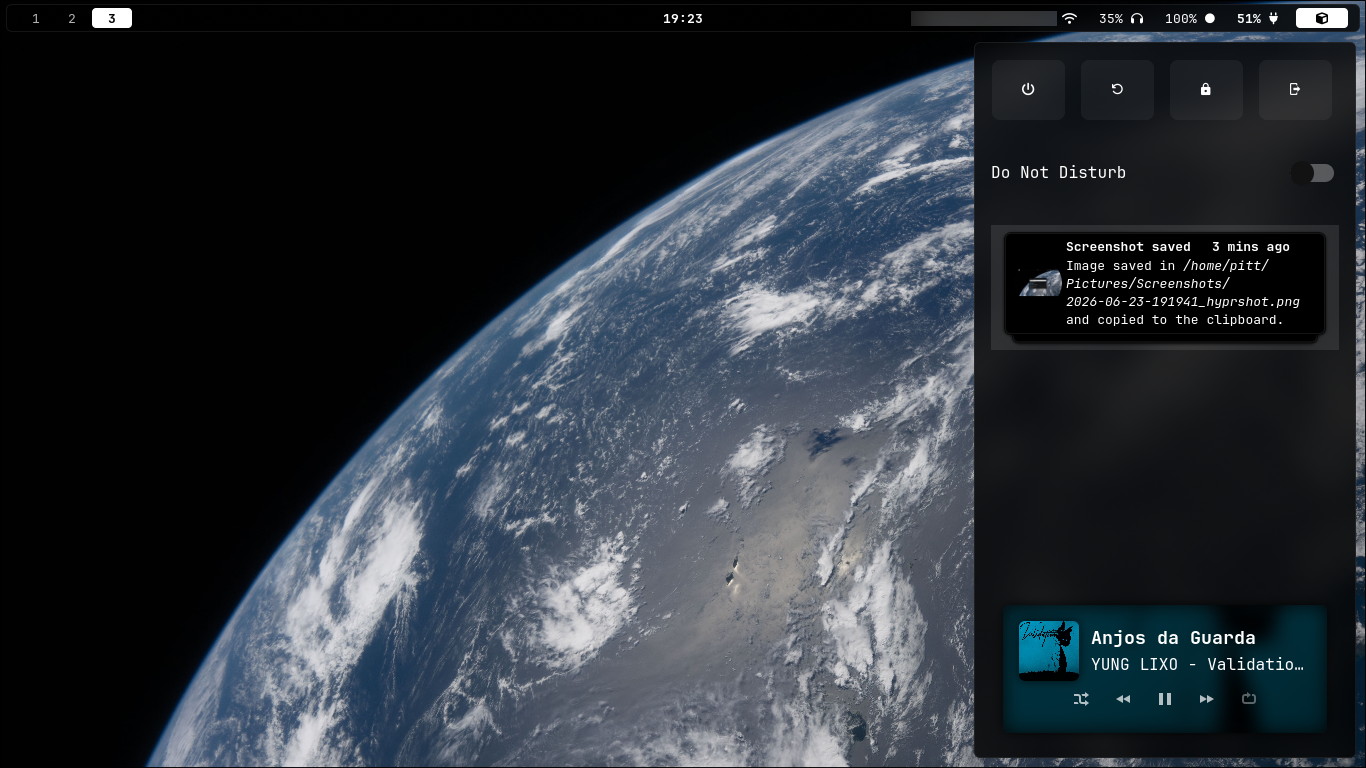
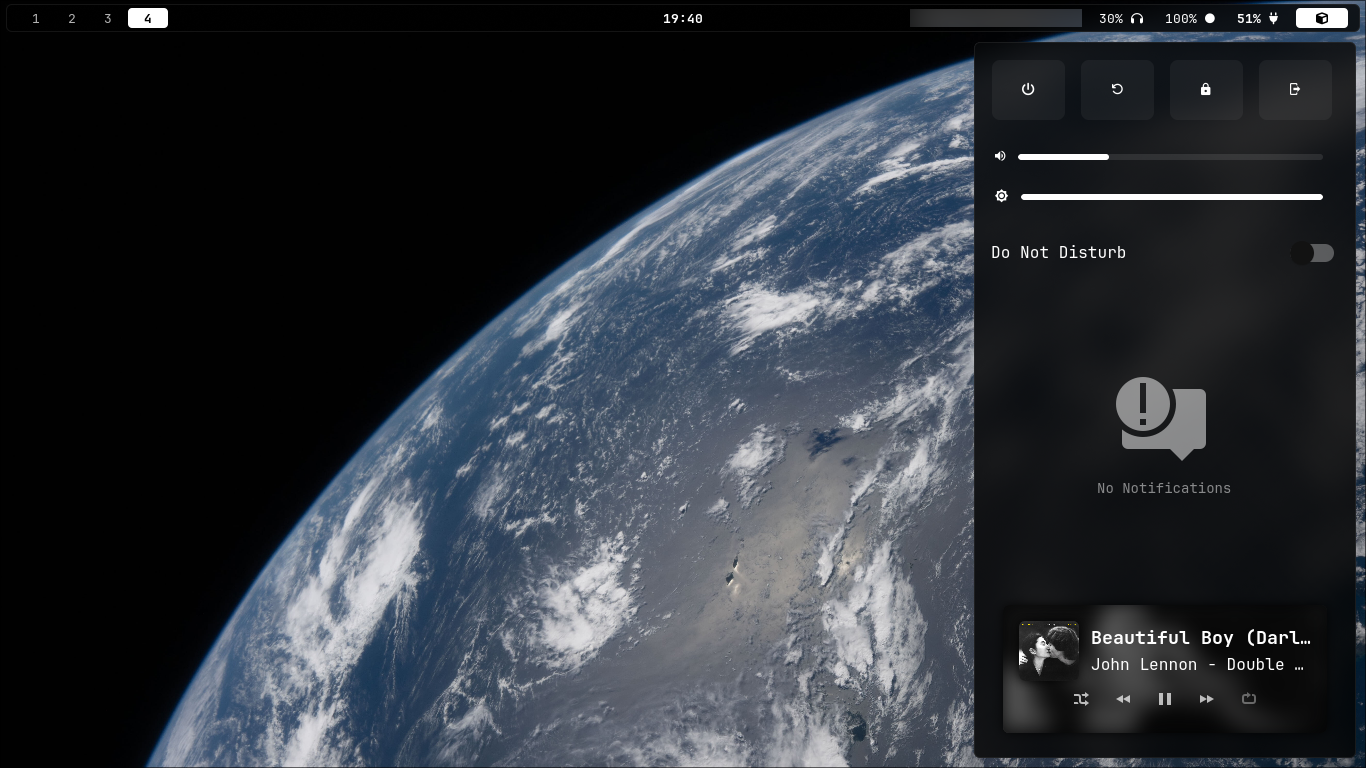
swaync volume and backlight update

diff --git a/config/swaync/style.css b/config/swaync/style.css
@@ -460,15 +460,30 @@ notificationwindow, blankwindow {
   --widget-volume-row-icon-size: 24px;
 }
 
-.widget-volume row image {
-  -gtk-icon-size: var(--widget-volume-row-icon-size);
+.widget-volume, .widget-backlight {
+  background: transparent;
+  padding: 0px 12px;
+  margin: 0px 8px;
 }
 
-.per-app-volume {
-  background-color: var(--noti-bg-darker);
-  margin: 8px;
-  margin-bottom: 0;
+.widget-volume scale trough, .widget-backlight scale trough {
+  background: rgba(255, 255, 255, 0.1);
   border-radius: var(--border-radius);
+  min-height: 6px;
+  min-width: 250px;
+}
+
+.widget-volume scale highlight, .widget-backlight scale highlight {
+  background: var(--text-color);
+  border-radius: var(--border-radius);
+}
+
+.widget-volume scale slider, .widget-backlight scale slider {
+  background: transparent;
+  box-shadow: none;
+  border: none;
+  min-height: 0;
+  min-width: 0;
 }
 
 .widget-slider label {